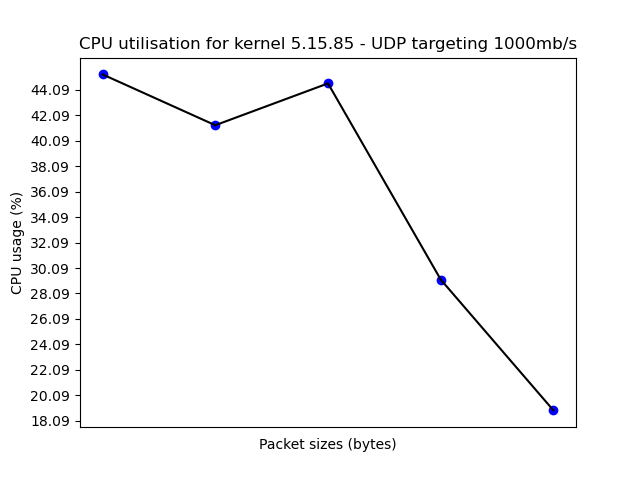
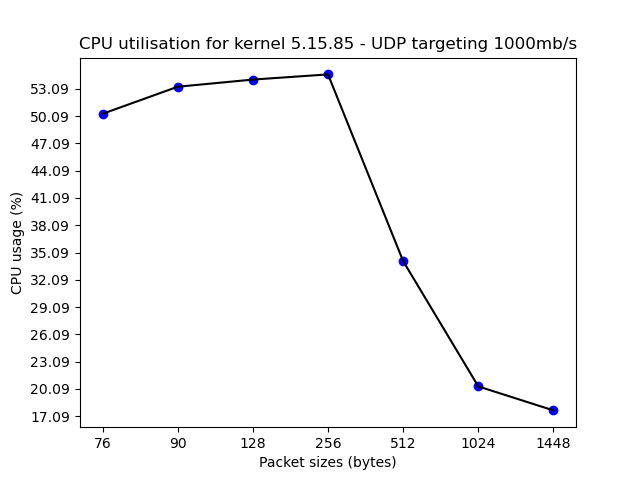
Tremendous suffering trying to matplotlib not be bad

diff --git a/kernelmark/src/finalise copy.py b/kernelmark/src/finalise copy.py
@@ -9,20 +9,13 @@ import os
 
 def finalise_iperf3(out_dir, machine_name):
     results = {}
-    
+
     # Find all tests
     for kernel in os.listdir(f"{out_dir}/{machine_name}"):
         # sub = []
         # Open each test
         results[kernel] = {"UDP" : {}, "TCP" : {}}
-        files = []
-        for f in os.listdir(f"{out_dir}/{machine_name}/{kernel}"):
-            if "iperf3" in str(f):
-                files.append(f)
-
-        files.sort(key=lambda filename: iperf3_filesort(filename))
-            
-        for file in files:
+        for file in os.listdir(f"{out_dir}/{machine_name}/{kernel}"):
             # Skip kernel, rootfs, etc.
             if not ".test" in file or not "iperf3" in file:
                 continue
@@ -36,8 +29,8 @@ def finalise_iperf3(out_dir, machine_name):
 
                 # packet size
                 packet_size = file.split("-")[3].split(".")[0] # cursed line but it works
+
                 result["packet_sz"] = packet_size
-                
                 # target bandwidth
                 bw = file.split("-")[2]
 
@@ -56,7 +49,7 @@ def finalise_iperf3(out_dir, machine_name):
     iperf3_graphs_throughput(results)
     iperf3_graphs_latency(results)
     iperf3_graphs_cpu(results)
-    
+
 
 def iperf3_graphs_throughput(results):
     """
@@ -70,13 +63,17 @@ def iperf3_graphs_throughput(results):
                 throughput = []
 
                 for test in results[kernel][protocol][bw]:
+                    print(test["packet_sz"])
                     packet_sizes.append(test["packet_sz"])
                     throughput.append(float(test["end"]["sum_sent"]["bits_per_second"]) / 10**6) # in megabits
+                print(packet_sizes)
+                packet_sizes.reverse()
+                throughput.reverse()
                 plt.xlabel("Packet sizes (bytes)")
                 tt = unitise_plot(throughput, "Throughput")
-                #pkt_ticks(packet_sizes)
                 plt.yticks(ticks(tt, 10))
-                plt.ticklabel_format(style='plain', axis='y', useOffset=False)
+                # pkt_ticks(packet_sizes)
+                plt.ticklabel_format(style='sci', axis='y', useOffset=False)
                 plt.title(f"Throughput performance for kernel {kernel} - {protocol} targeting {bw}b/s")
                 ax = plt.gca()
                 ax.yaxis.set_major_formatter('{x:9<5.1f}')
@@ -99,15 +96,16 @@ def iperf3_graphs_latency(results):
                 for test in results[kernel][protocol][bw]:
                     packet_sizes.append(test["packet_sz"])
                     latency.append(test["end"]["streams"][0]["sender"]["mean_rtt"])
+                packet_sizes.reverse()
+                latency.reverse()
                 plt.xlabel("Packet sizes (bytes)")
                 plt.ylabel("Mean RTT latency (us)")
-                #pkt_ticks(packet_sizes)
                 plt.yticks(ticks(latency, 10))
-                plt.ticklabel_format(style='plain', axis='y', useOffset=False)
+                # pkt_ticks(packet_sizes)
+                plt.ticklabel_format(style='sci', axis='y', useOffset=False)
                 plt.title(f"TCP Latency for kernel {kernel} - targeting {bw}b/s")
                 ax = plt.gca()
                 ax.yaxis.set_major_formatter('{x:9<5.1f}')
-
                 plt.plot(packet_sizes, latency, "bo", packet_sizes, latency, "k")
                 plt.savefig(f"../results/{kernel}-{bw}-latency.png")
 
@@ -125,11 +123,13 @@ def iperf3_graphs_cpu(results):
                 for test in results[kernel][protocol][bw]:
                     packet_sizes.append(test["packet_sz"])
                     cpu.append(test["end"]["cpu_utilization_percent"]["remote_total"])
+                packet_sizes.reverse()
+                cpu.reverse()
                 plt.xlabel("Packet sizes (bytes)")
                 plt.ylabel("CPU usage (%)")
-                #pkt_ticks(packet_sizes)
                 plt.yticks(ticks(cpu, 10))
-                plt.ticklabel_format(style='plain', axis='y', useOffset=False)
+                # pkt_ticks(packet_sizes)
+                plt.ticklabel_format(style='sci', axis='y', useOffset=False)
                 plt.title(f"CPU utilisation for kernel {kernel} - {protocol} targeting {bw}b/s")
                 ax = plt.gca()
                 ax.yaxis.set_major_formatter('{x:9<5.1f}')
@@ -142,7 +142,6 @@ def ticks(data, num_ticks):
     """
     minimum = int(min(data))
     maximum = int(max(data)) + 1
-
     # If it's not possible to create integer ticks, do it the goofy way
     if (maximum - minimum) < num_ticks:
         return [min(data), max(data)]
@@ -171,12 +170,8 @@ def pkt_ticks(pkt_sizes):
     ticks = []
     for p in pkt_sizes:
         ticks.append(int(p))
-    plt.xticks(ticks, pkt_sizes)
-    
+    plt.xticks(ticks)
 
-def iperf3_filesort(file):
-    return int(file.split("-")[3].split(".")[0])
-
-# For testingg
+# For testing
 if __name__ == "__main__":
     finalise_iperf3("/home/mattr/tor-scripts/kernelmark/output", "haswell4")
